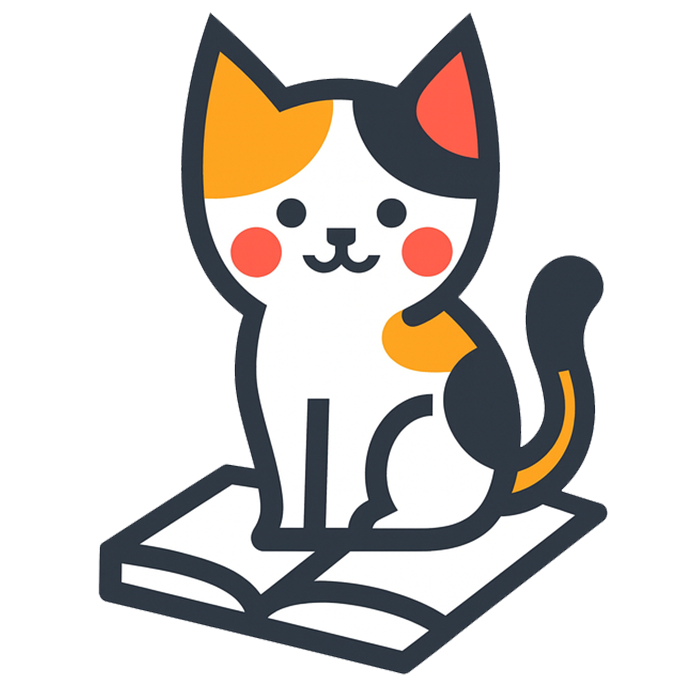
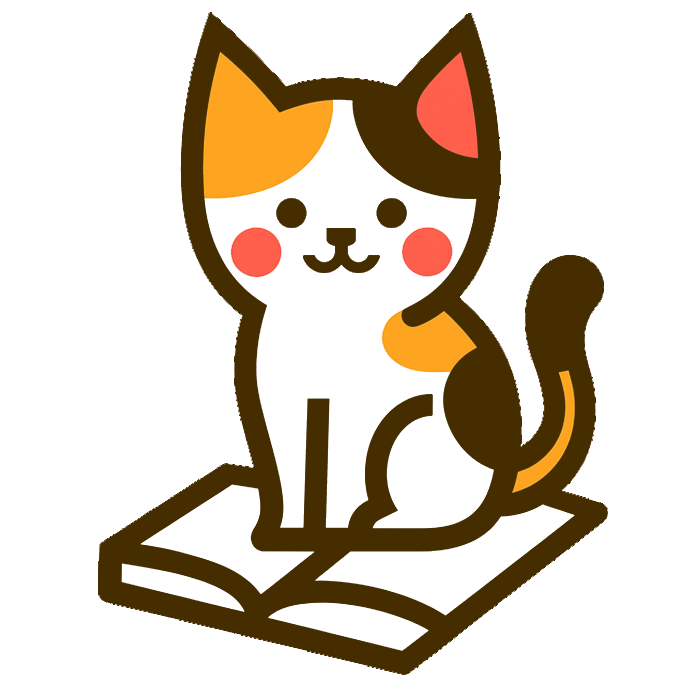
feat: make navbar responsive
Add new default user image.

Changed region(s): [[0.12, 0.0, 0.87, 0.96], [0.42, 0.3, 0.54, 0.39], [0.39, 0.27, 0.45, 0.33]]

diff --git a/BookCat.Site/wwwroot/css/layout.css b/BookCat.Site/wwwroot/css/layout.css
@@ -1,24 +1,25 @@
+header{
+    position: sticky;
+    top: 0;
+    z-index: 2;
+    background-color: inherit;
+}
 .nav-bar{
-    padding: 10px;
     display: flex;
     align-items: center;
     justify-content: space-between;
-    margin: 20px 20px 0px 20px;
-}
-
-.nav-bar a{
-    text-decoration: none;
-    color: inherit;
-}
-
-.nav-logo-text{
-    font-size: 2rem;
-    margin: 0;
+    padding: 4px;
+    box-shadow: 0px 1px 4px var(--shadow-color);
+    font-size: 0.8rem;
 }
 
 .nav-left{
     display: flex;
     align-items: center;
+}
+
+.nav-left a:last-of-type{
+    margin-left: 4px;
 }
 
 .nav-right{
@@ -27,45 +28,82 @@
 }
 
 .nav-logo{
-    width: 60px;
+    width: 50px;
     height: auto;
 }
 
+.nav-logo-text{
+    font-size: 1.4rem;
+    margin-right: 5px;
+}
+
 .nav-catalog-btn{
-    margin-left: 20px;
-    padding: 20px;
-    background-color: rgb(255, 205, 111);
     display: flex;
     align-items: center;
-    justify-content: space-between;
 }
 
 .nav-catalog-btn span:last-of-type{
-    margin-left: 10px;
+    margin-left: 3px;
 }
 
-.user-image{
+.user-img-link{
+    display: inline-block;
+    line-height: 0;
+    margin-right: 6px;
+}
+
+.user-img{
+    display: inline-block;
     object-fit: cover;
-    border: 1px black solid;
-    width: 60px;
-    height: 60px;
+    width: 40px;
+    border: 1px solid var(--primary-text-color);
     border-radius: 50%;
-    margin-right: 10px;
 }
 
 main{
     background-color: lightblue;
+    height: 200vh;
 }
 
 footer{
     background-color: lightblue;
 }
 
-@media screen and (max-width:375)  {
+@media screen and (min-width: 480px)  {
     .nav-bar{
-        margin: 3px 5px 0px 3px;
+        font-size: clamp(0.9rem, 2vw, 1.2rem);
+        padding: clamp(5px, 2vw, 15px) clamp(5px, 2vw, 50px);
     }
+
+    .nav-logo-text{
+        font-size: clamp(1.4rem, 2vw, 2rem);
+    }
+
     .nav-logo{
+        width: 70px;
+    }
+
+    .nav-logo-text{
+        margin-right: clamp(10px, 2vw, 20px);
+    }
+
+    .user-img-link{
+        margin-right: clamp(8px, 2vw, 20px);
+    }
+
+    .user-img{
         width: 50px;
+    }
+
+
+}
+
+@media screen and (min-width: 1000px)  {
+    .nav-logo{
+        width: 80px;
+    }
+
+    .user-img{
+        width: 60px;
     }
 }

diff --git a/BookCat.Site/wwwroot/css/site.css b/BookCat.Site/wwwroot/css/site.css
@@ -1,3 +1,15 @@
+:root{
+  --primary-text-color: rgb(70, 45, 0);
+  --primary-bg-color: rgb(255, 230, 184);
+  --shadow-color: rgb(146, 96, 2);
+  --button-bg-color: rgb(255, 190, 69);
+}
+
+
+*, *::before, *::after {
+  box-sizing: border-box;
+}
+
 html {
   font-size: 16px;
   position: relative;
@@ -5,28 +17,19 @@ html {
   font-optical-sizing: auto;
   font-weight: auto;
   font-style: normal;
-  color: rgb(70, 45, 0);
+  color: var(--primary-text-color);
 }
 
-*, *::before, *::after {
-  box-sizing: border-box;
+body {
+  margin: 0;
+  background-color: var(--primary-bg-color);
 }
 
 button, input, select, textarea { font: inherit; }
 
-body {
-  margin: 0;
-  background-color: rgb(255, 230, 184);
+
+@media screen and (min-width: 480px)  {
 }
 
-@media screen and (max-width:600px)  {
-    html{
-        font-size: 14px;
-    }
-}
-
-@media screen and (max-width:375px)  {
-    html{
-        font-size: 12px;
-    }
+@media screen and (min-width: 1000px)  {
 }

diff --git a/BookCat.Site/wwwroot/css/utility.css b/BookCat.Site/wwwroot/css/utility.css
@@ -1,8 +1,8 @@
 .btn{
     border: 0px;
     border-radius: 30px;
-    padding: 20px;
-    background-color: rgb(255, 190, 69);
+    background-color: var(--button-bg-color);
+    padding: 12px;
 }
 
 .btn:hover{
@@ -11,8 +11,16 @@
     cursor: pointer;
 }
 
-@media screen and (max-width:600px)  {
+.clean-link{
+    text-decoration: none;
+    color: inherit;
+}
+
+@media screen and (min-width: 480px)  {
     .btn{
         padding: 15px;
     }
+}
+
+@media screen and (min-width: 1000px)  {
 }

diff --git a/BookCat.Site/Program.cs b/BookCat.Site/Program.cs
@@ -82,5 +82,6 @@ TODO:
 * 
 
 * Changes
-* Add and style nav bar
+* Make navbar responsive
+* Add new default user image
 */
